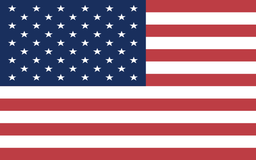
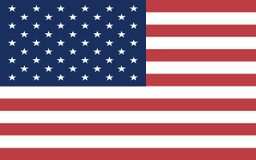
Regenerate US star PNGs and make APPLY_FLAG_FIX local-only.
Fighter two-sided UV + flags_hd already in source; rebuild US textures from
50-polygon SVG and drop git reset from the apply script so a local build is enough.

Changed region(s): [[0.0, 0.0, 1.0, 0.5625]]

diff --git a/PROJECT_STATUS.md b/PROJECT_STATUS.md
@@ -1,7 +1,7 @@
 # Arena of Nations — Project Status
 
 Документ состояния разработки. Источник правды — **текущий код**, не переписка.
-Дата снимка: 31 июля 2026.
+Дата снимка: 1 августа 2026.
 
 ---
 
@@ -515,7 +515,7 @@ Entity type: `arena_of_nations:arena_fighter` (`ArenaFighterEntity extends Wolf`
 
 ~15–20 последних этапов по коду. Без простыней Java.
 
-90. **Fighter flag mirror + US stars (31.07/01.08)** — бойцы: тот же two-sided UV path, что у баз (`blitFlagQuadFront`/`Back`); текстуры бойцов → `flags_hd` (как базы). США: SVG polygon-звёзды + PNG. Скрипт `APPLY_FLAG_FIX.cmd` (hard reset+build). Нужен полный рестарт клиента + F3+T.
+90. **Fighter flag mirror + US stars (31.07/01.08)** — бойцы: тот же two-sided UV path, что у баз (`blitFlagQuadFront`/`Back`); текстуры бойцов → `flags_hd` (как базы). США: SVG 50×`<polygon>` (не marker-mid) + PNG `flags/us` 128×80, `flags_hd/us` 256×160, `overlay/tiktok/flags/us`. `APPLY_FLAG_FIX.cmd` — только локальный `gradlew.bat build` (без git pull/reset). START_ARENA = `runClient`. Проверено: `clean build` SUCCESS; jar canton white stars; Minecraft не запускался.
 
 89. **S2E gift HTTP 400 fix (31.07)** — Play/BOM/`{coins}`; permissive defaults; CORS; `last HTTP body=`; `TEST_S2E_NOW.cmd`. Успешный ответ gift/chat: **HTTP 200** (+ `ok`/`success`) вместо 202 — StreamToEarn больше не показывает ложный fail toast. Нужен pull+build+рестарт мира. Chat Play (`message":"ru"`) до Gift, иначе `country_not_selected`.
 
